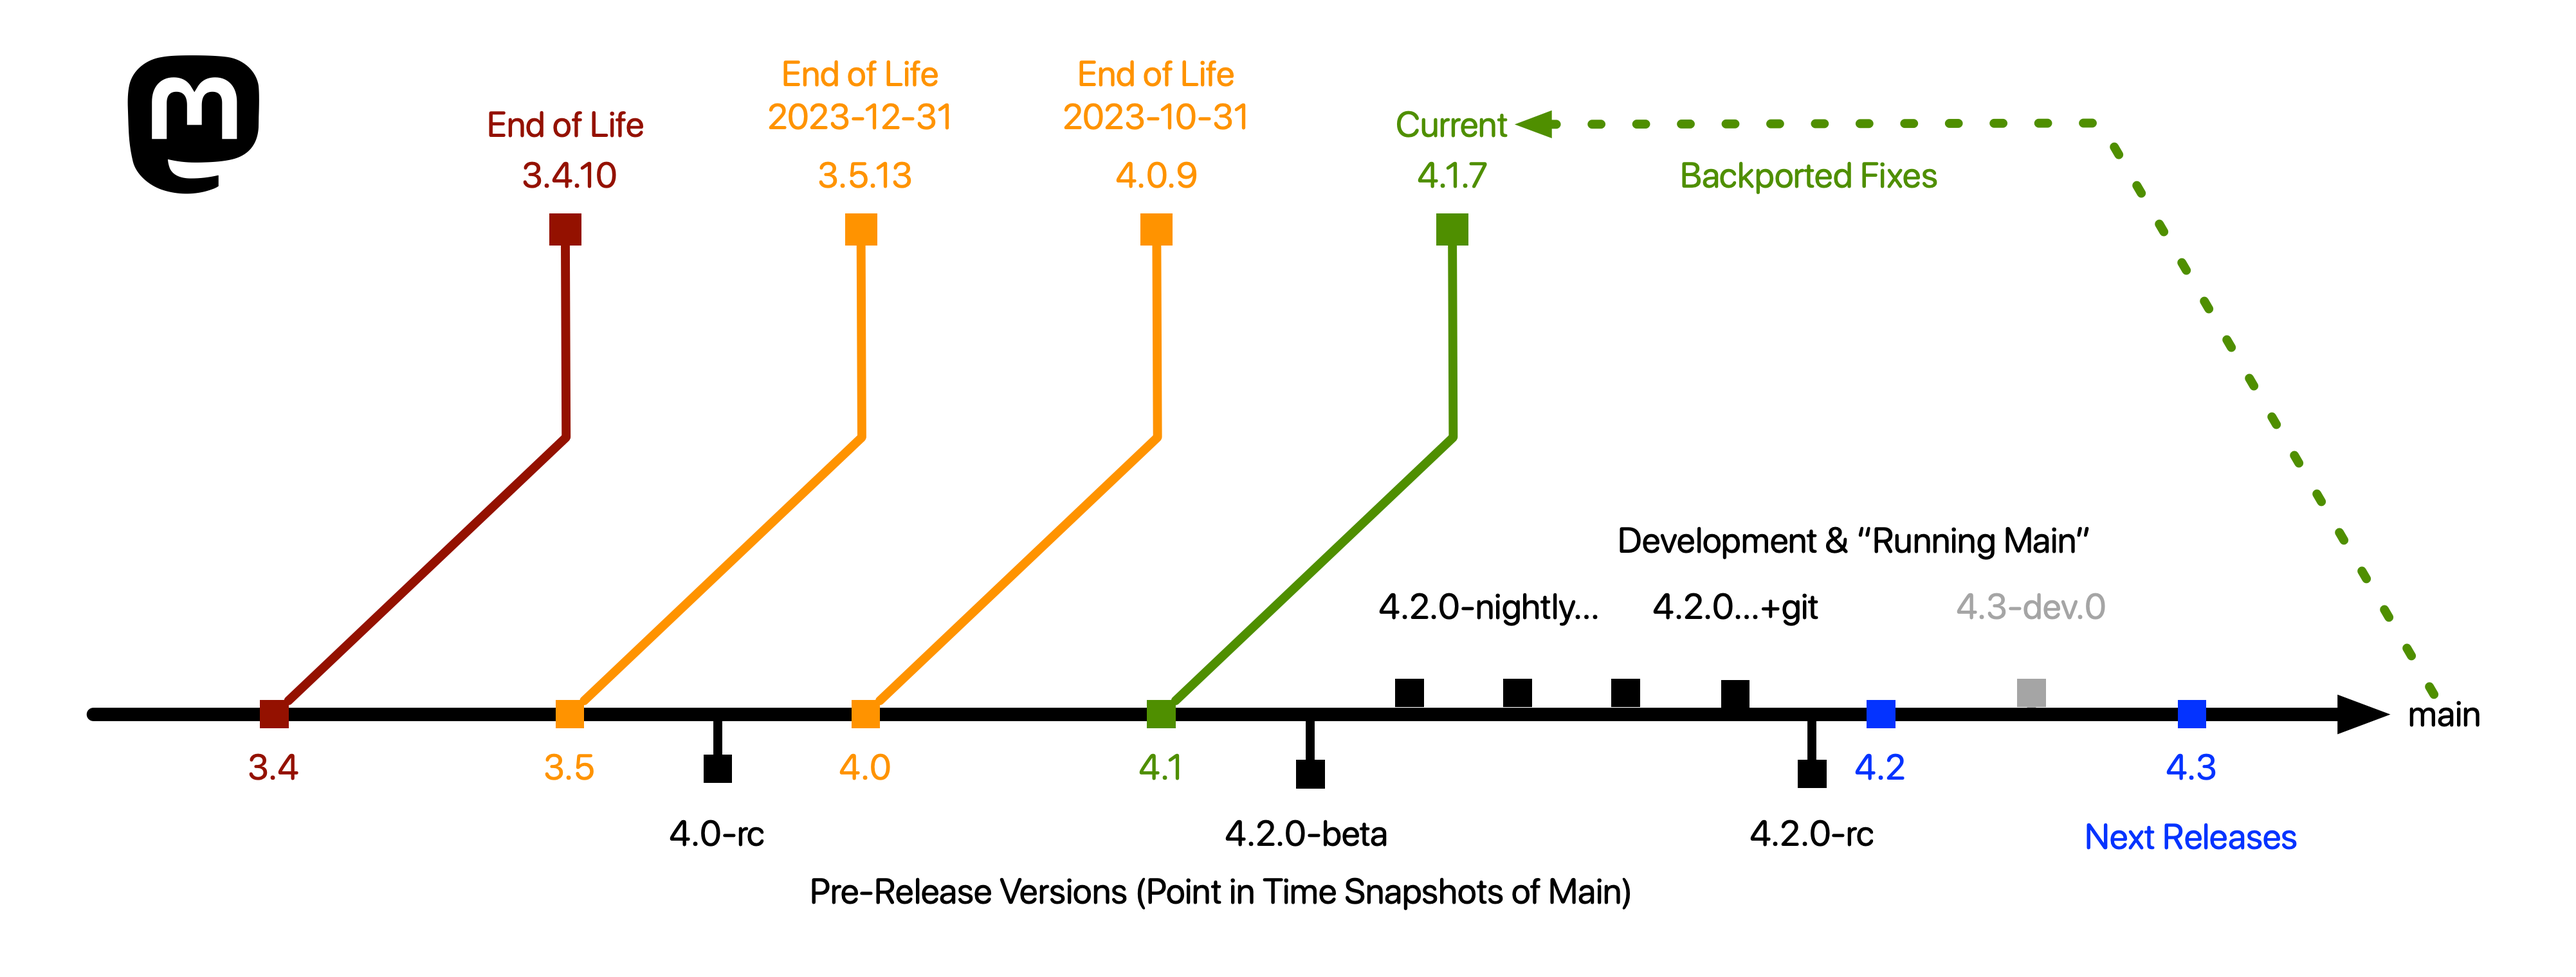
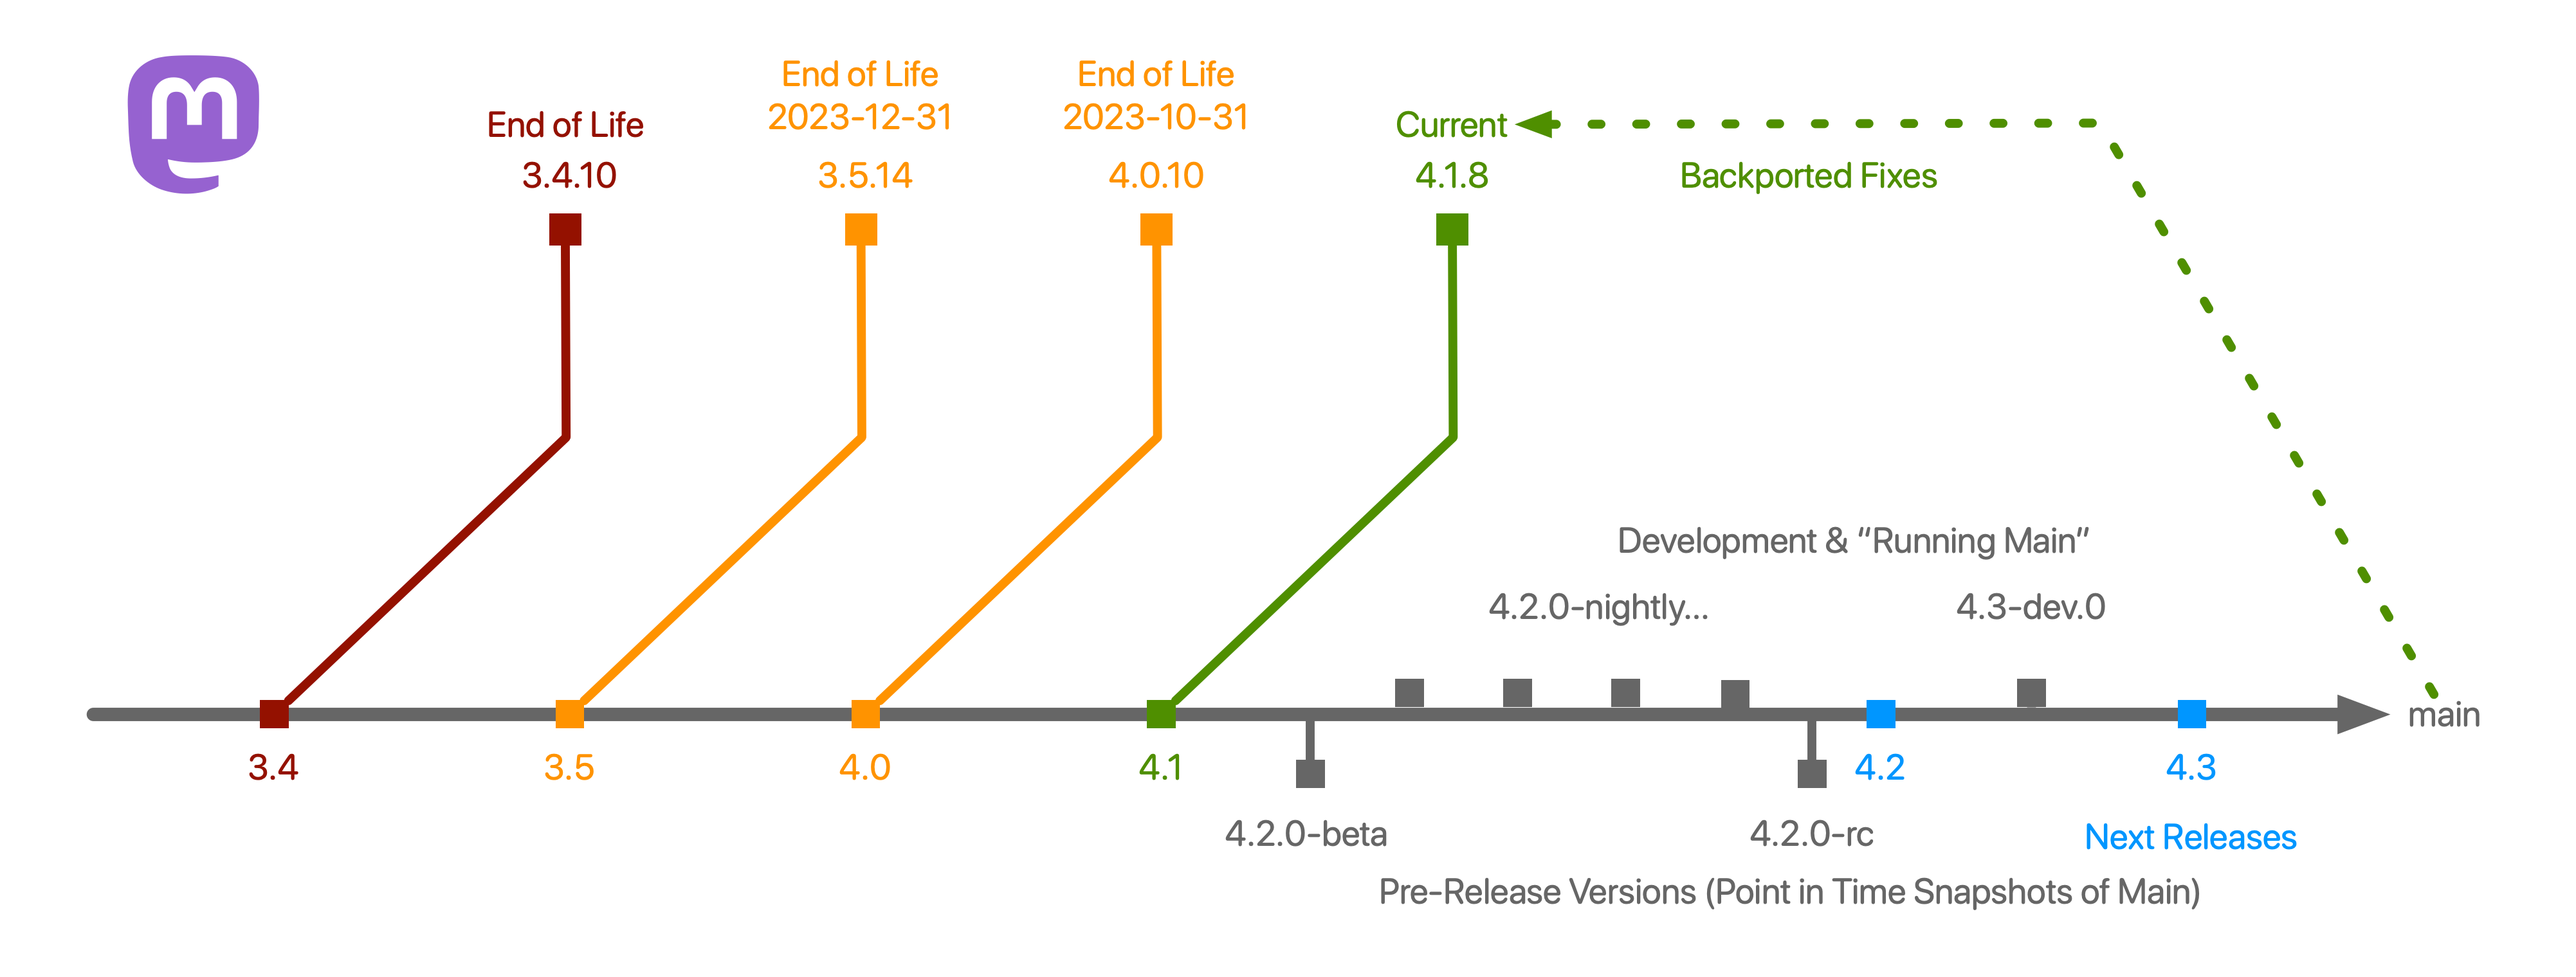
release update

diff --git a/docus/content/0.index.md b/docus/content/0.index.md
@@ -5,11 +5,11 @@ layout: page
 ---
 
 ::alert{type="info"}
-This documented is a community maintained, best effort, matrix of recent major/minor Mastodon releases and their underlying dependencies.
+This document is a community maintained, best effort, matrix of recent major/minor Mastodon releases and their underlying dependencies.
 You should always read the release notes for your version of Mastodon, and any product dependencies, before upgrading.
 ::
 
-|                    |             **v4.3-dev**             |             **v4.2-rc1**             |              **v4.1.7**              |              **v4.0.9**              |              **v3.5.13**             |              **v3.4.10**             |
+|                    |             **v4.3-dev**             |             **v4.2-rc2**             |              **v4.1.8**              |              **v4.0.10**             |              **v3.5.14**             |              **v3.4.10**             |
 |------------------- |:------------------------------------:|:------------------------------------:|:------------------------------------:|:------------------------------------:|:------------------------------------:|:------------------------------------:|
 | **Ruby**           |                                      |                                      |                                      |                                      |                                      |                                      |
 | 3.2.x              |  :icon{name="twemoji:green-circle"}  |  :icon{name="twemoji:green-circle"}  |   :icon{name="twemoji:red-circle"}   |  :icon{name="twemoji:white-circle"}  |  :icon{name="twemoji:white-circle"}  |  :icon{name="twemoji:white-circle"}  |
@@ -63,6 +63,16 @@ Dependencies listed for dev, beta and rc tagged versions are based on tracking t
 ## Version Chart
 
 ![Mastodon Branches](/mastodon-branches.png)
+
+### End of Life Dates
+
+| **Mastodon**  | **End of Life**  |
+|---------------|------------------|
+| 4.2.x         | To Be Determined |
+| 4.1.x         | To Be Determined |
+| 4.0.x         | After 2023-10-31 |
+| 3.5.x         | After 2023-12-31 |
+| 3.4.x & prior | End of Life Now  |
 
 ## Additional Resources
 
